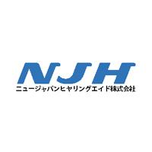
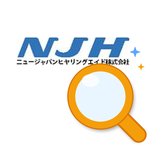
アプリ名をNJHシステムに変更、アイコンに虫眼鏡を追加

Changed region(s): [[0.1053, 0.2368, 0.9737, 0.9474]]

diff --git a/index.html b/index.html
@@ -6,14 +6,14 @@
     <meta name="theme-color" content="#1a365d">
     <meta name="apple-mobile-web-app-capable" content="yes">
     <meta name="apple-mobile-web-app-status-bar-style" content="default">
-    <meta name="apple-mobile-web-app-title" content="NJH業務アシスト">
+    <meta name="apple-mobile-web-app-title" content="NJHシステム">
     <meta name="mobile-web-app-capable" content="yes">
     <meta name="description" content="Beltone / Unitron 書類・マニュアル検索（NJH連携）">
     <link rel="manifest" href="./manifest.json">
     <link rel="apple-touch-icon" href="./icons/apple-touch-icon.png">
     <link rel="icon" type="image/png" sizes="192x192" href="./icons/icon-192.png">
     <link rel="icon" type="image/png" sizes="512x512" href="./icons/icon-512.png">
-    <title>NJHチャットボット</title>
+    <title>NJHシステム</title>
     <style>
         :root {
             --primary: #1a365d;
@@ -933,7 +933,7 @@ img,canvas,table{max-width:100%}
     <div class="top-actions">
         <button type="button" class="home-btn" onclick="resetAll()">🏠 最初に戻る</button>
     </div>
-    <h1>NJHチャットボット</h1>
+    <h1>NJHシステム</h1>
     <div class="subtitle">Beltone / Unitron 書類・マニュアル検索（NJH連携）</div>
 
     <div style="margin-bottom:10px"><a class="quick-card" href="./customer.html" style="background:linear-gradient(135deg,#1a365d,#2b6cb0)"><span class="q-ico">📋</span><b>顧客管理</b><small>顧客・聴力・補聴器記録 → 注文書へ自動入力</small></a></div>

diff --git a/sw.js b/sw.js
@@ -1,5 +1,5 @@
 // Service Worker for NJH 業務アシスト
-const CACHE_NAME = 'njh-assist-v43';
+const CACHE_NAME = 'njh-assist-v44';
 const ASSETS = [
   './',
   './index.html',

diff --git a/修正内容_名称とアイコン.md b/修正内容_名称とアイコン.md
@@ -1,0 +1,15 @@
+# 修正内容（2026-11-05）名称とアイコンの変更
+
+## 名称
+- アプリ名「NJH業務アシスト」を「NJHシステム」に変更
+  - manifest.json の name / short_name
+  - index.html の apple-mobile-web-app-title
+  - 画面タイトルと見出しの「NJHチャットボット」も「NJHシステム」に統一
+
+## アイコン
+- 今のNJHロゴをベースに、右下へ大きな虫眼鏡（オレンジの輪・水色のレンズ・ツヤ・キラキラ）を追加
+  - 「検索するアプリ」と一目で分かるデザインにした
+  - icons/ の全サイズ（48〜512）と apple-touch-icon を作り直し
+- sw を njh-assist-v44 に更新
+
+※ すでにホーム画面に追加している端末では、アイコンと名前は「ホーム画面に追加」をやり直すと新しいものに変わります。
